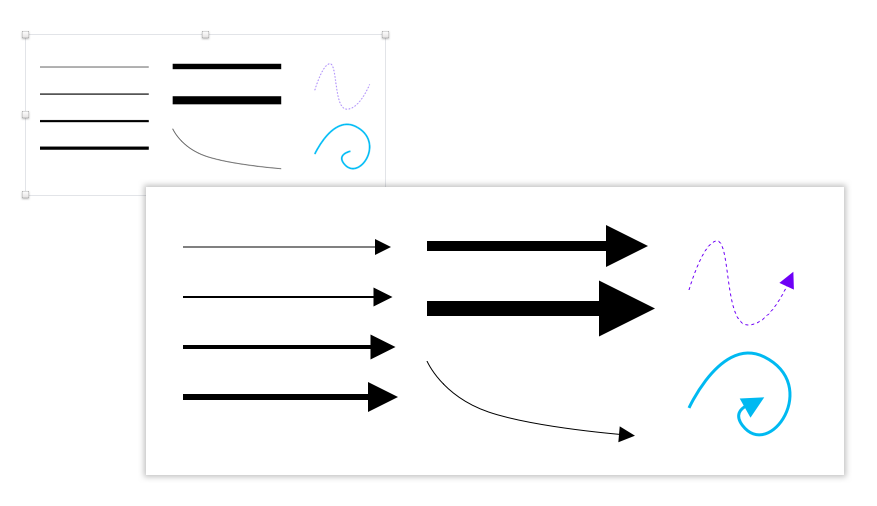
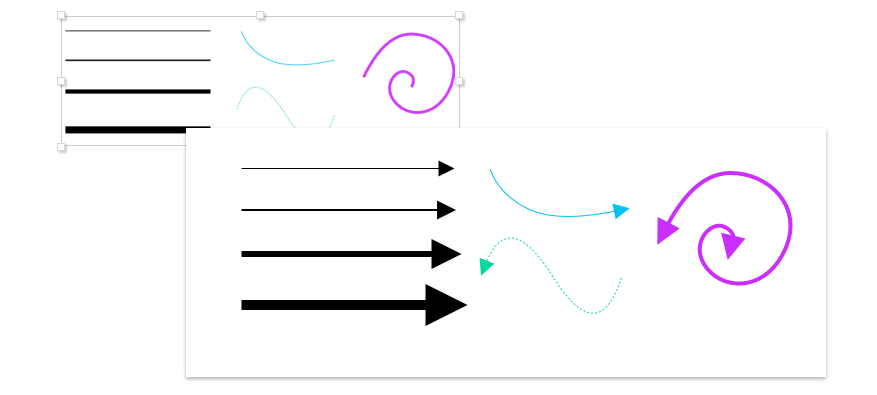
beginning and both end arrowhead options

diff --git a/README.md b/README.md
@@ -8,10 +8,13 @@ This plugin adds simple solid arrowheads to any line, sized and colored to match
 Double-click on .sketchplugin file.
 
 ## Usage
-Select one or multiple paths, then hit CTRL-Shift-A to add auto-styled
-arrowheads.
+Select one or multiple paths, then hit Ctrl-Shift-A to add auto-styled
+arrowheads to end. Menu allows adding arrowhead to beginning or both ends
+of paths instead.
+![Alt text](https://github.com/joclin/arrowfy/blob/master/arrowfy_menu.png)
 
 ## Versions
-- v1.3 - Changes shortcut to Ctrl-Shift-A to avoid new shortcut overlaps
+- v2.0 - Ability to add arrowhead to either or both ends of path.
+- v1.3 - Changes shortcut to Ctrl-Shift-A to avoid new shortcut overlaps.
 - v1.2 - Update makes this work for Sketch v46.2.
 - v1.1 - Update makes this work for Sketch v39. Also fixes shortcut mapping.
